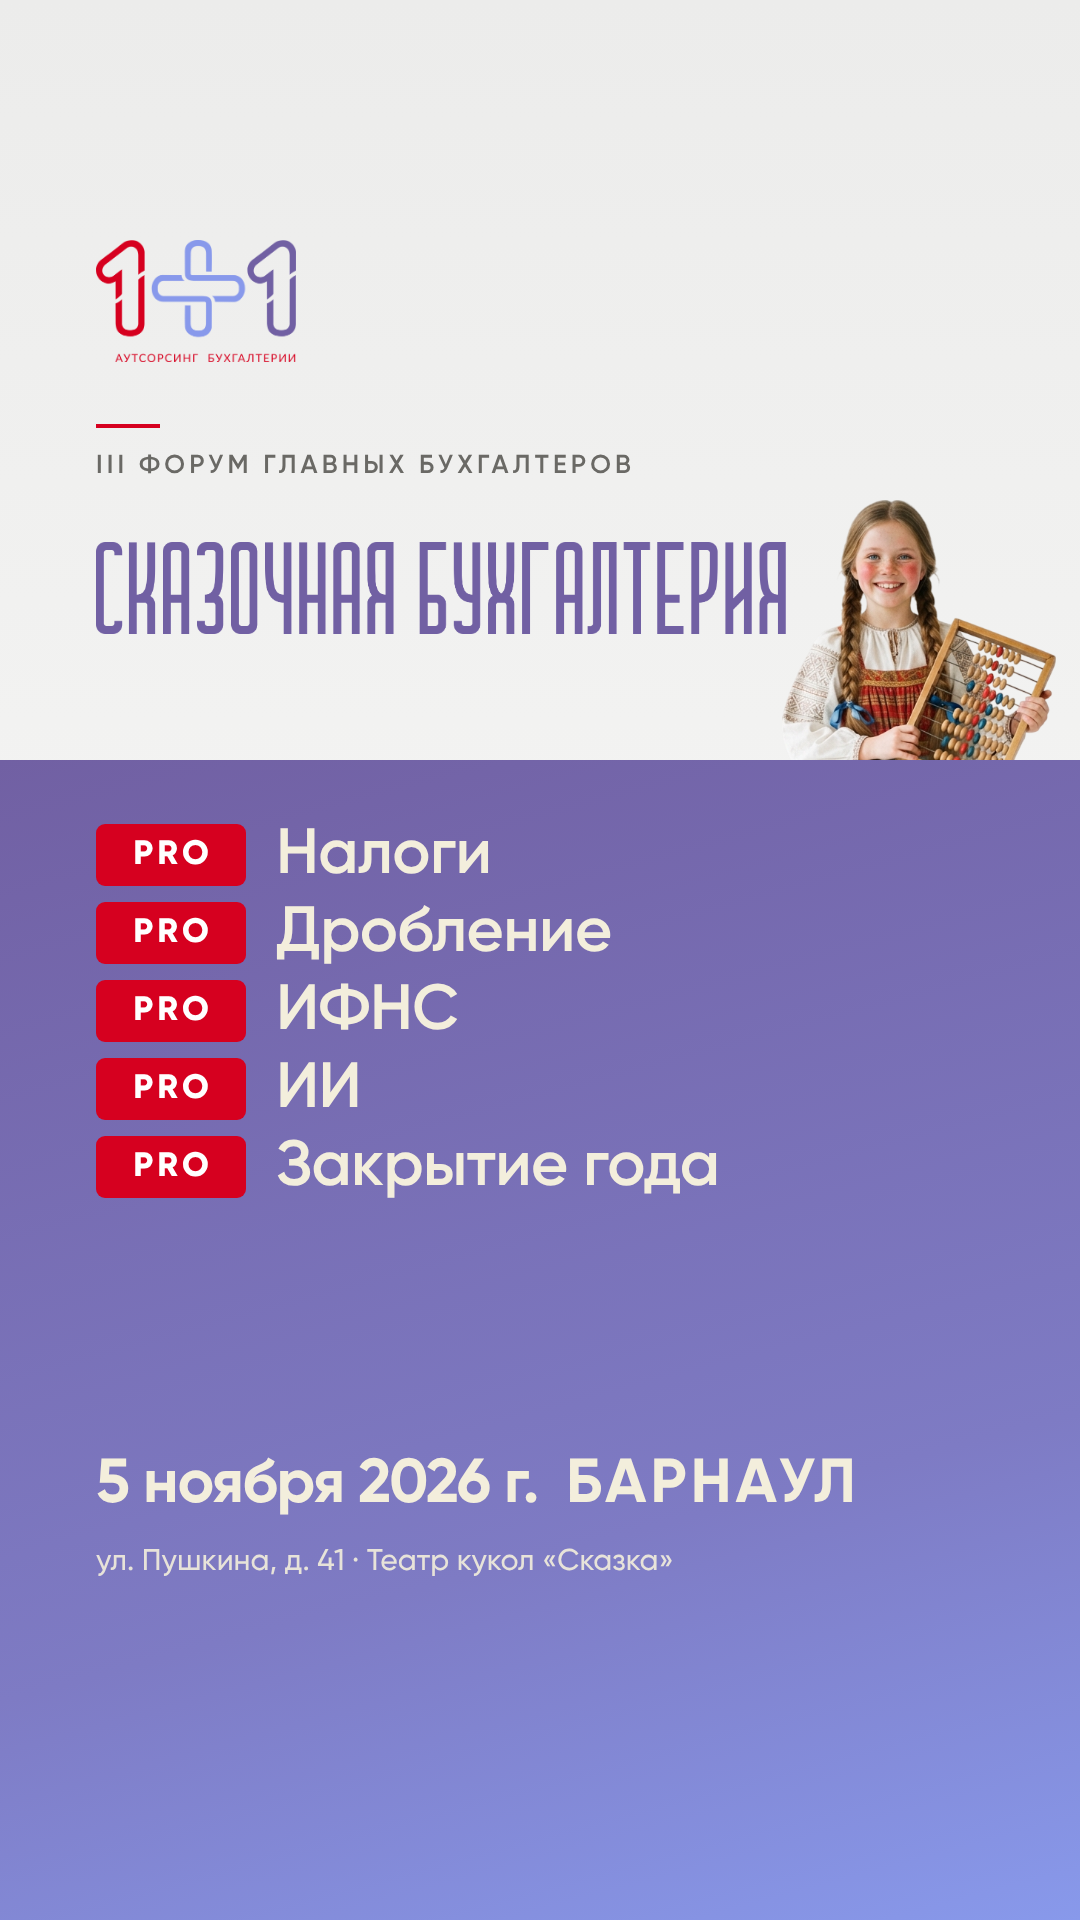
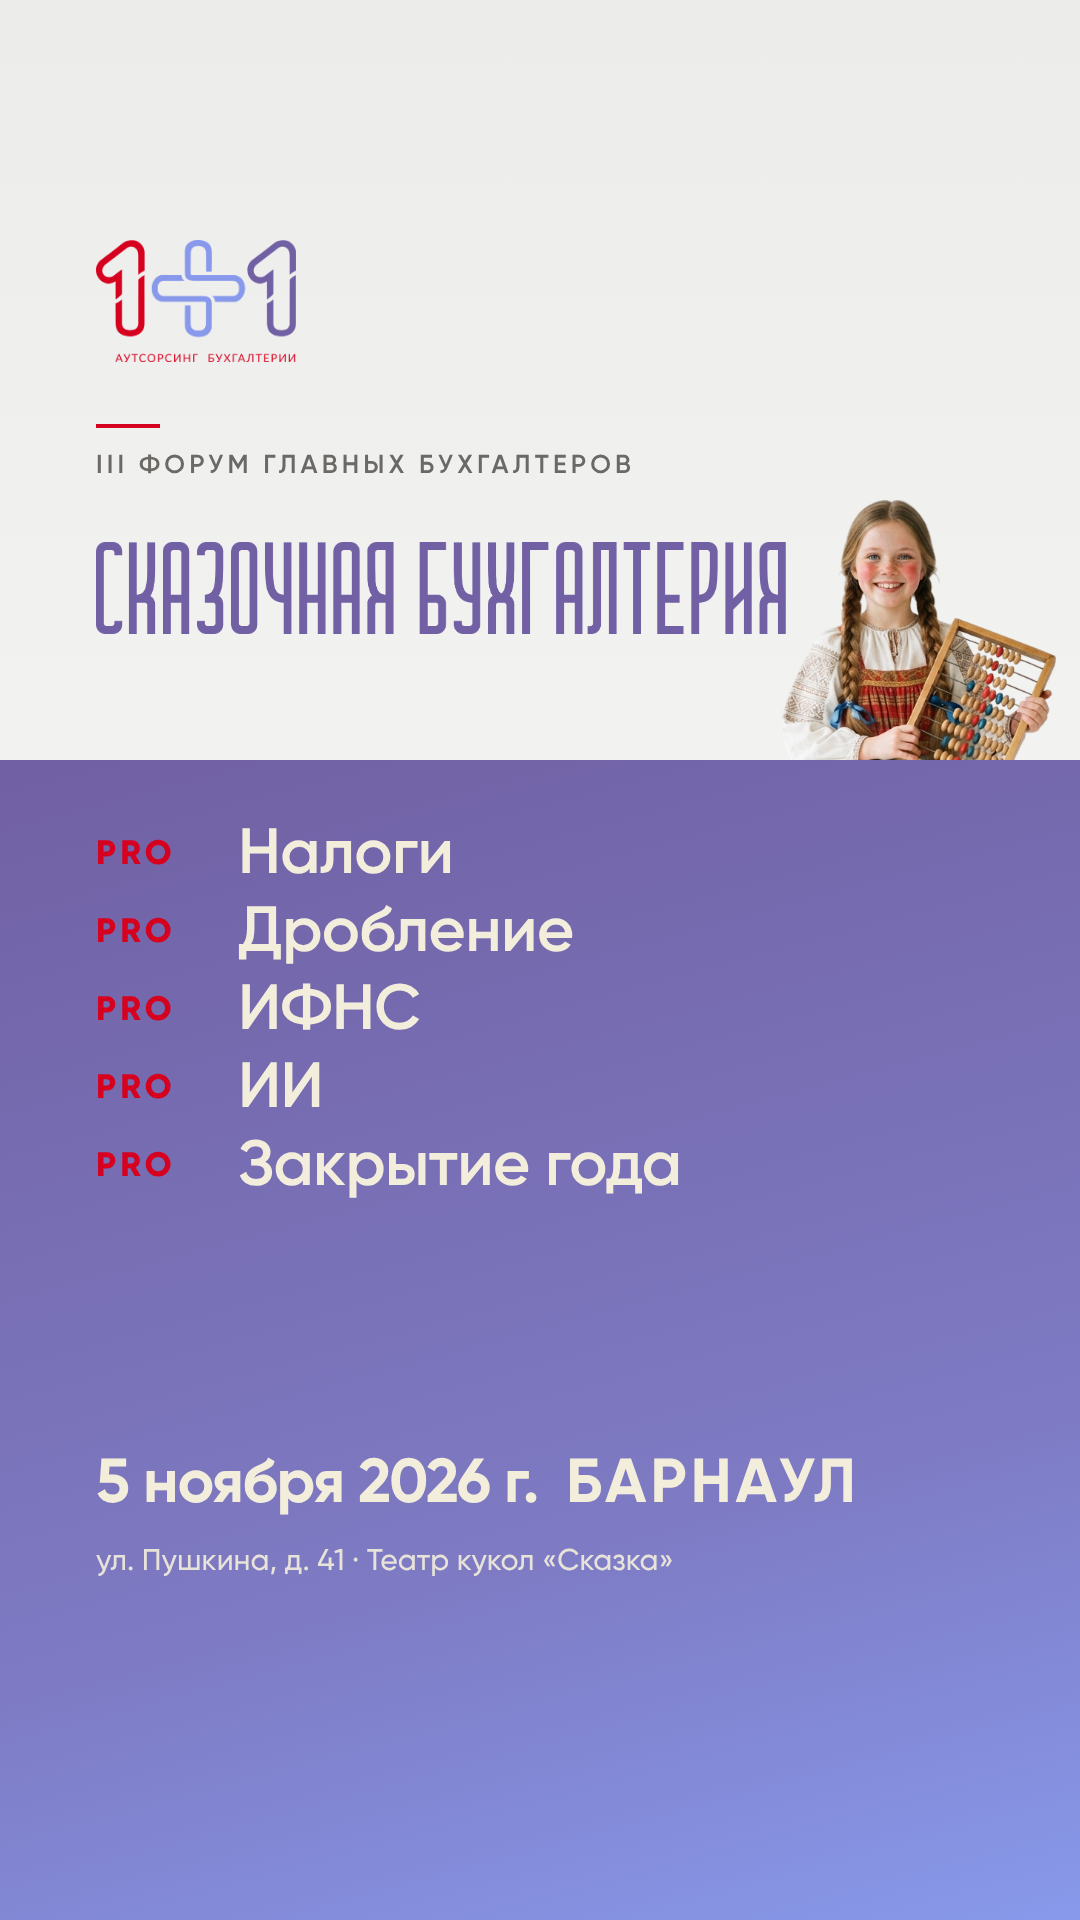
Сторис I: PRO красным текстом без плашек
Claude-Session: https://claude.ai/code/session_01VZ7Hrkur6jxoGp5f6QSiLJ

Changed region(s): [[0.0917, 0.4062, 0.6722, 0.625]]

diff --git a/examples/story-i.html b/examples/story-i.html
@@ -16,7 +16,7 @@ html,body{height:1920px}.canvas{height:1920px;background:var(--paper);color:#1C1
 .city{margin-left:28px;letter-spacing:.06em;text-transform:uppercase;color:#7160A3}
 .addr{font-weight:500;font-size:30px;color:#6A6965;white-space:nowrap}
 .girl{position:absolute;display:block}
-.panel{position:absolute;left:0;right:0;bottom:0;background:linear-gradient(165deg,#7160A3 0%,#7E7BC4 65%,#8899EB 100%);z-index:2}.pstack{position:absolute;left:96px;display:flex;flex-direction:column;justify-content:space-between}.panel .topics li{color:#F3EEDC}.panel .topics b{background:#D6001F;color:#fff;border-radius:9px}.panel .date,.panel .city{color:#F3EEDC}.panel .addr{color:rgba(243,238,220,.9)}.girl{right:24px;top:500px;height:640px;z-index:1}
+.panel{position:absolute;left:0;right:0;bottom:0;background:linear-gradient(165deg,#7160A3 0%,#7E7BC4 65%,#8899EB 100%);z-index:2}.pstack{position:absolute;left:96px;display:flex;flex-direction:column;justify-content:space-between}.panel .topics li{color:#F3EEDC}.panel .topics b{color:#D6001F;background:none;width:112px;padding-left:0;text-align:left}.panel .date,.panel .city{color:#F3EEDC}.panel .addr{color:rgba(243,238,220,.9)}.girl{right:24px;top:500px;height:640px;z-index:1}
 </style></head><body><div class="canvas ">
 <img class="logo" src="../assets/event/logo-forum.png" alt="">
 <div class="stack top" style="bottom:auto;top:424px"><div class="head"><div class="dash2"></div><div class="eyebrow">III форум главных бухгалтеров</div></div><div class="wm" style="margin-top:60px"></div></div><img class="girl" src="../assets/event/girl-abacus.png" alt=""><div class="panel" style="top:760px"><div class="pstack" style="top:64px;bottom:340px"><ul class="topics"><li><b>PRO</b>Налоги</li><li><b>PRO</b>Дробление</li><li><b>PRO</b>ИФНС</li><li><b>PRO</b>ИИ</li><li><b>PRO</b>Закрытие года</li></ul><div><div class="date">5&nbsp;ноября 2026&nbsp;г.<span class="city">Барнаул</span></div><div class="addr">ул.&nbsp;Пушкина, д.&nbsp;41 · Театр кукол «Сказка»</div></div></div></div>

diff --git a/tools/forum-layouts.py b/tools/forum-layouts.py
@@ -48,14 +48,14 @@ for fmt,pre in ((SQ,'forum'),(STO,'story')):
     std(f'{pre}-e',fmt,'plates','',('.girl{right:-6px;top:1440px;height:900px}' if sto else '.girl{right:-10px;top:790px;height:780px}'))
     std(f'{pre}-b',fmt,'',('.stack{}' ),('.girl{right:60px;top:770px;height:520px}' if sto else '.girl{right:30px;top:420px;height:660px}'))
 # I — светлый верх + панель
-def pan(name,fmt,ptop,wmtop,girlcss,pad):
+def pan(name,fmt,ptop,wmtop,girlcss,pad,plates=True):
     sto=fmt is STO
     top=f'<div class="stack top" style="bottom:auto;top:{fmt["ST"]}px">{HEAD}<div class="wm" style="margin-top:{wmtop}px"></div></div>'
     panel=f'<div class="panel" style="top:{ptop}px"><div class="pstack" style="top:{pad}px;bottom:{fmt["SB"]}px"><ul class="topics">{li}</ul>{BOT}</div></div>'
     css=(f'.panel{{position:absolute;left:0;right:0;bottom:0;background:linear-gradient(165deg,#7160A3 0%,#7E7BC4 65%,#8899EB 100%);z-index:2}}'
       '.pstack{position:absolute;left:96px;display:flex;flex-direction:column;justify-content:space-between}'
-      '.panel .topics li{color:#F3EEDC}.panel .topics b{background:#D6001F;color:#fff;border-radius:9px}'
+      '.panel .topics li{color:#F3EEDC}'+('.panel .topics b{background:#D6001F;color:#fff;border-radius:9px}' if plates else '.panel .topics b{color:#D6001F;background:none;width:112px;padding-left:0;text-align:left}')+
       '.panel .date,.panel .city{color:#F3EEDC}.panel .addr{color:rgba(243,238,220,.9)}'+girlcss)
     build(name,fmt,'',css,top+GIRL+panel)
 pan('forum-i',SQ,458,40,'.girl{right:24px;top:240px;height:560px;z-index:1}',34)
-pan('story-i',dict(STO,SB=340),760,60,'.girl{right:24px;top:500px;height:640px;z-index:1}',64)
+pan('story-i',dict(STO,SB=340),760,60,'.girl{right:24px;top:500px;height:640px;z-index:1}',64,False)
